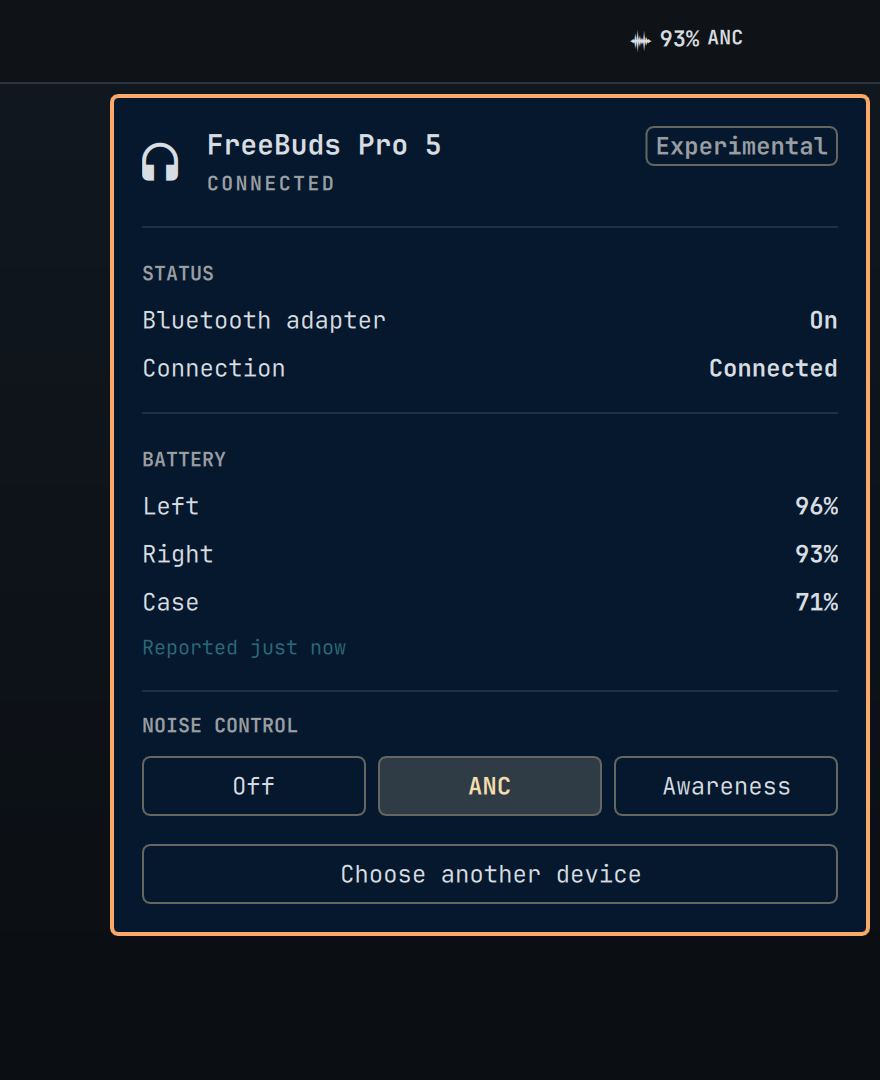
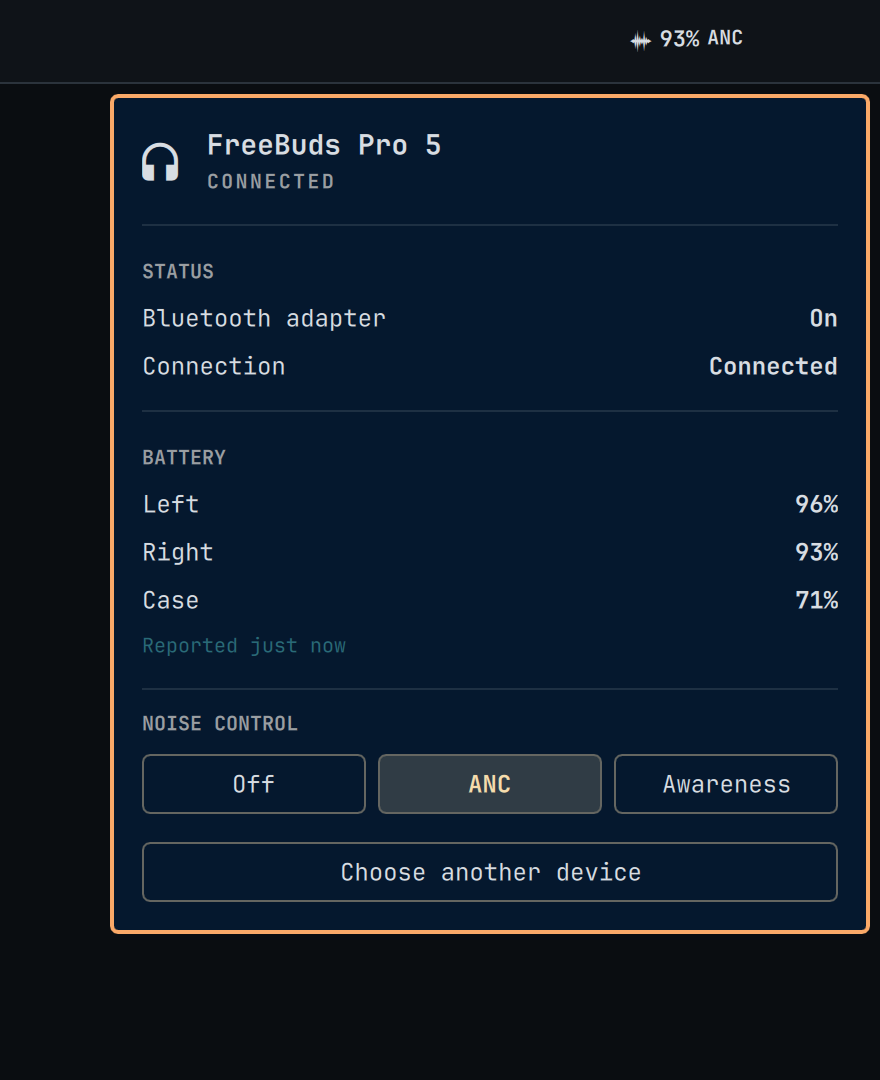
chore: remove experimental labeling
Remove the panel badge and plugin metadata wording, rewrite documentation around the pending hardware gate, and regenerate the preview from the updated panel.

diff --git a/Panel.qml b/Panel.qml
@@ -401,7 +401,6 @@ Ui.Panel {
                     Ui.PanelHero {
                         title: "FreeBuds Pro 5"
                         meta: root.connectionText
-                        detail: "Experimental"
                         foreground: root.barForeground
                         fontFamily: root.fontFamily
                         iconComponent: Component {

diff --git a/docs/research/freebuds-pro-5-protocol.md b/docs/research/freebuds-pro-5-protocol.md
@@ -23,8 +23,8 @@ FreeBuds Pro 5 support on Linux separates into four support areas:
 |---|---|---:|---|
 | Stereo music and media controls | Feasible now through BlueZ, PipeWire, and WirePlumber | High; strengthened by cached profiles and historical local A2DP/AVRCP evidence | Use the standard Linux Bluetooth audio stack without a custom audio transport |
 | HFP call audio | Standards-feasible and discovered locally | Medium; local HFP attempts include refused/not-connected results | Advertise as available by profile, not locally reliability-validated |
-| Left, right, and case battery readings | Feasible as an experimental private-protocol feature | Medium-high for packet semantics; medium-low for discovery and identity | Read only over a tightly gated RFCOMM session |
-| Off, ANC, and transparency control | Feasible as an explicit experimental feature | Medium-high for the three packets; medium-low for discovery, identity, and firmware coverage | Allow only the three retained Pro 5 writes, then verify with a readback |
+| Left, right, and case battery readings | Feasible as a constrained private-protocol feature | Medium-high for packet semantics; medium-low for discovery and identity | Read only over a tightly gated RFCOMM session |
+| Off, ANC, and transparency control | Feasible as an explicit private-protocol feature | Medium-high for the three packets; medium-low for discovery, identity, and firmware coverage | Allow only the three retained Pro 5 writes, then verify with a readback |
 
 The public evidence does **not** justify a broad "fully supported" claim. Huawei does not publish the private control protocol. The strongest public device-specific evidence is a set of retained FreeBuds Pro 5 request, response, and write frames in HuaweiPods tests. Those fixtures cover a battery response, three noise-control readbacks, and three noise-control writes. They do not cover every firmware, error response, notification, pairing state, or concurrent audio/control scenario.
 
@@ -46,7 +46,7 @@ A safe near-term result is therefore:
 - Treat battery values as timestamped observations, not durable state.
 - Do not implement ANC sub-levels, gesture configuration, EQ, low-latency mode, wear-setting writes, multipoint management, or firmware functions from the current evidence.
 
-This is sufficient for an opt-in experimental MVP. It is not sufficient for unattended background control or an unqualified stable-support promise.
+This is sufficient for an opt-in, hardware-gated MVP. It is not sufficient for unattended background control or an unqualified stable-support promise.
 
 ## Scope and non-interaction statement
 
@@ -79,7 +79,7 @@ The report uses five evidence classes. Confidence is scoped to the claim being m
 |---|---|---|---|
 | A: first-party | Huawei, Bluetooth SIG, or the owner of a standard publishes the fact | T0023, supported codecs, SPP behavior, assigned UUIDs | Product and standards facts |
 | B: upstream implementation | BlueZ, PipeWire, WirePlumber, or Linux source defines actual host behavior | `Battery1`, RFCOMM security levels, available codec names | Linux architecture and security |
-| C: retained Pro 5 capture | Public tests retain exact bytes explicitly labeled as captured from Pro 5 | Battery frame and three ANC state frames | Exact experimental protocol support |
+| C: retained Pro 5 capture | Public tests retain exact bytes explicitly labeled as captured from Pro 5 | Battery frame and three ANC state frames | Exact constrained protocol support |
 | D: implementation assertion | A project claims testing or maps a value but does not retain the corresponding raw Pro 5 evidence | Channel 1, ID `00016D`, broad OpenFreebuds feature list | Provisional gating or a lead for future capture, not a settled fact |
 | E: local observation | Read-only inspection of disconnected cache, historical host records, and host software | Cached UUIDs, prior A2DP/AVRCP events, installed codec modules | Local corroboration only; never upgrades an unknown packet/channel/codec meaning by itself |
 
@@ -134,7 +134,7 @@ The Bluetooth SIG describes A2DP as the profile for high-quality audio distribut
 | Stereo music playback | A2DP, with the computer acting as source and earbuds as sink | BlueZ + PipeWire + WirePlumber |
 | Call audio and headset signaling | HFP, normally computer as Audio Gateway and earbuds as Hands-Free unit | BlueZ + PipeWire |
 | Play/pause, track, and volume controls | AVRCP plus PipeWire session integration | BlueZ + PipeWire/WirePlumber |
-| Huawei settings and component battery | No public standard mapping established | Experimental private RFCOMM client |
+| Huawei settings and component battery | No public standard mapping established | Private RFCOMM client |
 
 PipeWire's current Bluetooth property reference lists `a2dp_sink`, `a2dp_source`, `hfp_hf`, and `hfp_ag` roles and lists enabled codec names including SBC, SBC-XQ, AAC, LDAC, aptX variants, LC3, and Opus variants.[^pw-props] WirePlumber exposes those monitor properties and profile auto-connect rules; it documents that all available codecs are enabled by default unless configured otherwise.[^wp-bluetooth]
 
@@ -171,7 +171,7 @@ OpenFreebuds opens an `AF_BLUETOOTH`, `SOCK_STREAM`, `BTPROTO_RFCOMM` socket and
 - The actual Pro 5 SDP UUID/channel tuple remains unverified in public raw evidence.
 - A Linux client must not scan channels 1 through 8 or try unrelated SDP UUIDs.
 - A future hardware pass should retain the actual SDP service record.
-- Until then, channel 1 may be used only behind explicit experimental support and the identity/readback gates described below.
+- Until then, channel 1 may be used only behind explicit opt-in support and the identity/readback gates described below.
 
 The disconnected local target's cached `Device1.UUIDs` includes the standard SerialPort UUID `00001101-0000-1000-8000-00805f9b34fb`. This strengthens the conclusion that this unit previously advertised an SPP-class service. Because `ServicesResolved=false` in the snapshot and no raw SDP record was retained, it does not establish the current service state or server channel. It also does not promote OpenFreebuds' channel-1 assertion from class D to captured fact.
 
@@ -181,7 +181,7 @@ BlueZ `org.bluez.Device1` exposes cached remote UUIDs and read-only `Paired`, `B
 
 This distinction matters. The application should inspect `Device1` but should not call `Pair()`, write `Trusted`, or call broad `Connect()`/`Disconnect()`. Pairing belongs to the desktop's normal UI and agent.
 
-The Bluetooth SIG Battery Service exposes level and related information for a battery within a device, but its existence on this model has not been established.[^bas] BlueZ `org.bluez.Battery1` exposes one read-only byte `Percentage` and an optional informational `Source`.[^bluez-battery] BlueZ's built-in GATT battery plugin looks specifically for Battery Service UUID `0x180F` and registers its value with source `GATT Battery Service`.[^bluez-battery-plugin] PipeWire can also derive one headset battery percentage from HFP indicators such as `AT+BIEV`, `AT+XEVENT=BATTERY`, and `AT+IPHONEACCEV`, then publish it through BlueZ's experimental Battery Provider API.[^pw-hfp-battery][^pw-battery-provider]
+The Bluetooth SIG Battery Service exposes level and related information for a battery within a device, but its existence on this model has not been established.[^bas] BlueZ `org.bluez.Battery1` exposes one read-only byte `Percentage` and an optional informational `Source`.[^bluez-battery] BlueZ's built-in GATT battery plugin looks specifically for Battery Service UUID `0x180F` and registers its value with source `GATT Battery Service`.[^bluez-battery-plugin] PipeWire can also derive one headset battery percentage from HFP indicators such as `AT+BIEV`, `AT+XEVENT=BATTERY`, and `AT+IPHONEACCEV`, then publish it through BlueZ's unstable Battery Provider API.[^pw-hfp-battery][^pw-battery-provider]
 
 BlueZ exposes `BatteryProviderManager1` on the local adapter, which proves only that the host can accept a provider. In the disconnected target snapshot there was no target `Battery1`, target battery-provider object, GATT child, current UPower device, cached Battery Service UUID, `ManufacturerData`, or `ServiceData`. `ServicesResolved=false` means this absence cannot establish what appears during a live connection. Historical UPower files contain only connection-timestamped `0.000`/`unknown` samples; those samples must not be displayed as zero-percent battery.
 
@@ -198,7 +198,7 @@ BlueZ also exposes remote GATT characteristics through `org.bluez.GattCharacteri
 
 ## Capability matrix
 
-`Yes` means evidence supports an implementation decision. `Experimental` means exact scope and guards are mandatory. `No` means deliberately excluded, not necessarily that the product lacks the feature.
+`Yes` means evidence supports an implementation decision. `Constrained` means exact scope and guards are mandatory. `No` means deliberately excluded, not necessarily that the product lacks the feature.
 
 | Capability | Product evidence | Pro 5 protocol evidence | Linux support | MVP decision |
 |---|---|---|---|---|
@@ -206,18 +206,18 @@ BlueZ also exposes remote GATT characteristics through `org.bluez.GattCharacteri
 | Stereo playback | A2DP 1.3; product codecs listed | Not needed | Cached Audio Sink/A2DP UUIDs, historical A2DP fd readiness, persistent `a2dp-sink` | Yes |
 | Call audio | HFP 1.7 | Not needed | Hands-Free UUID cached; historical attempts sometimes refused/not connected | Discovered, but local reliability unvalidated |
 | Media controls | AVRCP 1.6; controls documented | Not needed | Cached AVRCP UUIDs and historical kernel input creation | Yes |
-| Private SPP transport | SPP UUID cached on the local target | No raw SDP record/channel capture | Direct RFCOMM available; channel 1 remains an implementation assertion | Experimental only |
+| Private SPP transport | SPP UUID cached on the local target | No raw SDP record/channel capture | Direct RFCOMM available; channel 1 remains an implementation assertion | Constrained only |
 | SBC | Huawei lists support | Not needed | Host module installed; peer negotiation not recorded | Yes, only if negotiated |
 | AAC | Huawei lists support | Not needed | Host module installed; peer negotiation not recorded | Yes, only if negotiated |
 | LDAC | Huawei lists support | Not needed | Host module links `libldac`; peer negotiation not recorded | Yes, only if negotiated |
 | L2HC | Huawei lists support | None | No implementation found in examined stock stack | No |
 | NearLink E2.0 | Huawei China page lists it separately | None | No implementation found | No |
 | One host battery percentage | Huawei documents host displays | Source on Pro 5 unknown | No live target `Battery1`; UPower history is `0.000`/`unknown` | Hide until a live value is cross-validated |
-| Left/right/case percentages | Huawei app documents component display | Exact Pro 5 battery frame retained | Direct RFCOMM | Experimental read-only |
-| Per-component charging flags | Product has rechargeable components | Pro 5 frame has three captured bytes in TLV `03`; zero observed | Direct RFCOMM | Experimental read-only; nonzero semantics need capture coverage |
-| Earbud in/out-of-case state | Product has case and wear behavior | Pro 5 tests label TLV `05`: `0` out, `1` in | Direct RFCOMM | Experimental read-only |
-| Read current noise-control mode | ANC/transparency official | Three exact Pro 5 response frames retained | Direct RFCOMM | Experimental |
-| Set Off/ANC/Transparency | Modes official | Three exact Pro 5 writes retained | Direct RFCOMM | Experimental, user initiated and readback verified |
+| Left/right/case percentages | Huawei app documents component display | Exact Pro 5 battery frame retained | Direct RFCOMM | Constrained read-only |
+| Per-component charging flags | Product has rechargeable components | Pro 5 frame has three captured bytes in TLV `03`; zero observed | Direct RFCOMM | Constrained read-only; nonzero semantics need capture coverage |
+| Earbud in/out-of-case state | Product has case and wear behavior | Pro 5 tests label TLV `05`: `0` out, `1` in | Direct RFCOMM | Constrained read-only |
+| Read current noise-control mode | ANC/transparency official | Three exact Pro 5 response frames retained | Direct RFCOMM | Constrained |
+| Set Off/ANC/Transparency | Modes official | Three exact Pro 5 writes retained | Direct RFCOMM | Constrained, user initiated and readback verified |
 | Discrete ANC strength | Advanced ANC official at a product level | No retained Pro 5 write/read mapping; HuaweiPods intentionally leaves it disabled | None standard | No |
 | Voice-transparency submode | Human Voice Transparency official | No retained Pro 5 command corpus beyond generic transparency | None standard | No |
 | Wear-detection setting | Feature official | OpenFreebuds claim only for private configuration | None standard established | Observe standard playback behavior only; no setting writes |
@@ -371,7 +371,7 @@ The route policy maps `00016D` to `HUAWEI_FREEBUDS_PRO5` and comments that only 
 
 OpenFreebuds instead dispatches its Pro 5 driver by the Bluetooth name `HUAWEI FreeBuds Pro 5` and assigns channel 1.[^ofb-pro5][^ofb-driver-map] A display name alone is not a safe protocol capability gate.
 
-### Provisional gate for an experimental MVP
+### Provisional gate for a hardware-gated MVP
 
 Use a monotonic state machine. Never infer a later state from a timeout or default value.
 
@@ -381,8 +381,8 @@ Use a monotonic state machine. Never infer a later state from a timeout or defau
 | `Selected` | User explicitly selects one already paired/bonded device | Read cached BlueZ metadata; no private write |
 | `SecureTransport` | One RFCOMM channel-1 connection succeeds with explicit medium security | DeviceInfo query only |
 | `IdentityProvisional` | Strict DeviceInfo parser returns `00016D`; no conflicting valid identity | Battery and ANC-state reads |
-| `ReadVerified` | At least one CRC-valid response has a Pro 5-retained shape: component battery with valid tag `05`, or extended ANC response with tag `02 01 05` | Show experimental read data |
-| `WriteEnabled` | User separately enables experimental controls and a fresh ANC state read succeeds | Three exact mode writes, one at a time, with readback |
+| `ReadVerified` | At least one CRC-valid response has a Pro 5-retained shape: component battery with valid tag `05`, or extended ANC response with tag `02 01 05` | Show gated read data |
+| `WriteEnabled` | User separately enables private controls and a fresh ANC state read succeeds | Three exact mode writes, one at a time, with readback |
 | `Faulted` | Security downgrade, bad CRC threshold, malformed known TLV, identity conflict, timeout during verification, or post-write mismatch | Close transport; no more writes until explicit retry |
 
 Additional rules:
@@ -882,7 +882,7 @@ Linux revision: `0f23d56f17fdfc7db69d51f64c8b91bbab947aa9`, 2026-08-17.
 
 ## Final recommendation
 
-Proceed with a staged Linux implementation only if the product is presented honestly as experimental private-protocol support:
+Proceed with a staged Linux implementation only if the product is presented honestly as constrained, hardware-gated private-protocol support:
 
 1. Build standard audio integration by observing, not replacing, BlueZ/PipeWire/WirePlumber.
 2. Implement and exhaustively test the strict offline framer and fixture corpus.

diff --git a/docs/implementation-plan.md b/docs/implementation-plan.md
@@ -24,7 +24,7 @@ The implementation keeps these invariants from the first commit:
 - The selected address is the only persistent device datum and is stored atomically with mode `0600`.
 - Private values are nullable observations and are never fabricated or persisted.
 - The UI remains visible and useful through its generic Quickshell fallback.
-- The release remains labeled Experimental before and after the physical hardware gate; that gate authorizes an Experimental release tag, not a stable-support claim.
+- The release tag remains blocked until the physical hardware gate passes; passing that gate does not broaden the exact target or establish a stable-support claim.
 - Invalid config startup reports `config_invalid` before the final hello; accepted request IDs strictly increase for each child lifetime.
 - Every transport send has a fail-closed queued-input guard with one exception for the exact empty `01/06` control frame, while the protocol's missing sequence field remains an explicit causality limit.
 - Generic fallback is display-only, and a wall-clock rollback expires private observations.
@@ -51,7 +51,7 @@ The finished tree contains these implementation and verification files:
 | `.gitignore` | Excludes Python bytecode and `__pycache__` directories |
 | `docs/hardware-validation.md` | Authoritative Pending/Passed/Failed ledger for HW-01 through HW-16 |
 | `docs/preview.png` | Actual Omarchy layer-shell render with deterministic fixture values; documentation only |
-| `README.md` | Experimental scope, installation, use, privacy, troubleshooting, removal, and no-affiliation notice |
+| `README.md` | Target scope, hardware status, installation, use, privacy, troubleshooting, removal, and no-affiliation notice |
 | `LICENSE` | Standard MIT License text with the project copyright notice |
 
 No settings schema, package recipe, service unit, vendored dependency, icon asset, generated code, virtual environment, binary helper, submodule, raw mode-`160000` gitlink, or repository symlink is added.
@@ -65,7 +65,7 @@ No settings schema, package recipe, service unit, vendored dependency, icon asse
 3. Add minimal `Service.qml` and `Panel.qml` entry points that instantiate without host properties and become usable after delayed host injection.
 4. In `Service.qml`, declare nullable `shell` and `manifest`; do not use `required` for host-injected values.
 5. In `Panel.qml`, derive from Omarchy `Panel`, set `manageIpc: false`, keep `bar`, `moduleName`, and `settings` nullable, and render one native generic headphones glyph even when the service is null.
-6. Add `README.md` with the exact target, Experimental label, Omarchy 4 baseline, MIT license, unofficial/no-affiliation statement, and a statement that all Bluetooth management remains in Omarchy Bluetooth.
+6. Add `README.md` with the exact target, pending hardware status, Omarchy 4 baseline, MIT license, unofficial/no-affiliation statement, and a statement that all Bluetooth management remains in Omarchy Bluetooth.
 7. Create `.github/workflows/check.yml` with an initial manifest and syntax job; later steps extend the same workflow.
 
 ### Verification
@@ -367,7 +367,7 @@ Extend `tests/qml/tst_Model.qml` and the host entry-point smoke harness to prove
 5. Show the lower fresh verified left/right value in the bar and suppress the generic `Earbuds` row while component rows are present. Otherwise show the Quickshell aggregate only for the unambiguous selected connected device; in the service-null fallback, require exactly one connected exact-name paired/bonded candidate.
 6. Open and close the per-monitor panel directly from the bar button. Set `manageIpc: false`; add no external IPC handler.
 7. On `opened` changing from false to true, call `service.panelOpened()` once. Do not call it on component creation, close, generic reconnect, or state rerender.
-8. Render the fixed panel order from `architecture.md`: Experimental header, generic connection state, one battery presentation, freshness, ANC controls, and one safe next action.
+8. Render the fixed panel order from `architecture.md`: product header, generic connection state, one battery presentation, freshness, ANC controls, and one safe next action.
 9. Display unknown private fields as `Not reported`. Never render a null, invalid, stale-bar, or failed value as `0%`.
 10. Hide ANC controls until current-generation extended ANC verification succeeds. Disable them while stale, pending, disconnected, helper-failed, or expired.
 11. Render only `Off`, `ANC`, and `Awareness`; a fresh verified mode selects its matching bar glyph and short marker. A press calls `service.setAnc()` once and shows pending state until readback result.
@@ -444,7 +444,7 @@ Run QML unit tests and perform an Omarchy host smoke pass for:
 3. Add an AST-based Python import allowlist test and a socket-construction test that permits only the accepted Bluetooth family/type/protocol.
 4. Add static scans over implementation files for OpenFreebuds/Omapods runtime references, IP socket families, HTTP modules, D-Bus modules, systemd units, package recipes, detached execution, shell interpolation, channel iteration, security downgrade, retry loops, and private polling timers.
 5. Use `/usr/lib/qt6/bin/qmlformat` on temporary copies whose filenames end in `.qml`, because installed `qmlformat 1.0` has no `--check` flag.
-6. Complete `README.md` with exact install, enable, use, Experimental warning, generic fallback, privacy, config path/mode, troubleshooting, disable, removal, and optional config deletion instructions.
+6. Complete `README.md` with exact install, enable, use, pending hardware warning, generic fallback, privacy, config path/mode, troubleshooting, disable, removal, and optional config deletion instructions.
 7. State in README that the project is unofficial, is not affiliated with Huawei, supports only T0023/`00016D`, ships no Huawei/Omapods assets, performs no Bluetooth management, and performs no network access.
 8. Verify the manifest and README contain no OpenFreebuds installation instruction, helper-package instruction, AUR dependency, systemd command, or broader-model claim.
 9. Reject raw gitlinks from `git ls-files --stage`, as well as filesystem symlinks and unexpected paths. Permit only the bounded `880x1080` `docs/preview.png` as binary documentation and reject every other binary path.
@@ -536,12 +536,12 @@ automated fixtures and host smoke do not satisfy a hardware row.
 
 ### Abort conditions
 
-Stop the hardware session immediately if an unexpected pairing, authorization, reset, firmware update, account prompt, repeated disconnect, unstable audio, thermal issue, ambiguous target, differing write frame, second private-control socket, or unrecoverable starting state appears. Stop means close the current socket, send no compensating unverified command, preserve the exact failure evidence privately, and keep the release Experimental.
+Stop the hardware session immediately if an unexpected pairing, authorization, reset, firmware update, account prompt, repeated disconnect, unstable audio, thermal issue, ambiguous target, differing write frame, second private-control socket, or unrecoverable starting state appears. Stop means close the current socket, send no compensating unverified command, preserve the exact failure evidence privately, and keep the release blocked.
 
 ### Release outcome
 
-- If every HW gate passes, set the hardware ledger to `Status: Passed`, keep the release Experimental, and run the full offline gate once more. A release tag is eligible only if it is an annotated `v0.1.0` tag at that exact green commit, contains a PGP or SSH signature envelope, and GitHub cryptographically verifies that signature with `verification.verified: true` and `verification.reason: valid`.
-- If any HW gate fails or is not executed, keep the ledger `Failed` or `Pending`, block the release tag, keep `0.1.0` labeled Experimental, expose no unsupported private claim, and introduce no fallback implementation branch.
+- If every HW gate passes, set the hardware ledger to `Status: Passed` and run the full offline gate once more. A release tag is eligible only if it is an annotated `v0.1.0` tag at that exact green commit, contains a PGP or SSH signature envelope, and GitHub cryptographically verifies that signature with `verification.verified: true` and `verification.reason: valid`.
+- If any HW gate fails or is not executed, keep the ledger `Failed` or `Pending`, block the release tag, expose no unsupported private claim, and introduce no fallback implementation branch.
 - A failed gate returns implementation to the numbered step that owns the failing behavior. After the fix, rerun that step's gate, all later automated gates, and the complete hardware matrix from HW-01.
 - CI uses only its workflow token to query GitHub's verification result; it has no private signing key configured, and this plan claims no current signing readiness.
 
@@ -560,6 +560,6 @@ Implementation is complete when all of these statements are true:
 9. Every architecture failure state has a tested deterministic generic fallback.
 10. The repository contains no rejected dependency, process model, networking path, model expansion, packet API, asset, or settings schema.
 11. The physical-gate result is recorded in `docs/hardware-validation.md`; a tag requires Passed plus sixteen Pass rows, an annotated PGP or SSH signature envelope, and GitHub cryptographic verification with `verification.verified: true` and `verification.reason: valid`.
-12. The release remains Experimental regardless of the hardware-gate outcome.
+12. The exact T0023/`00016D` scope remains unchanged regardless of the hardware-gate outcome.
 
-This definition is binary. A red item leaves the implementation incomplete or the release Experimental according to Step 10; it does not authorize a compatibility workaround.
+This definition is binary. A red item leaves the implementation incomplete or the release blocked according to Step 10; it does not authorize a compatibility workaround.

diff --git a/docs/architecture.md b/docs/architecture.md
@@ -16,8 +16,8 @@ The release provides:
 
 - An Omarchy 4 native bar widget and panel that are always present when enabled.
 - Generic paired, connected, adapter, and fallback aggregate-battery state from `Quickshell.Bluetooth`.
-- Experimental left, right, and case battery observations from strictly validated Huawei RFCOMM responses.
-- Experimental top-level noise-control state and explicit `Off`, `ANC`, and `Awareness` actions.
+- Left, right, and case battery observations from strictly validated Huawei RFCOMM responses.
+- Top-level noise-control state and explicit `Off`, `ANC`, and `Awareness` actions.
 - A deterministic generic BlueZ fallback whenever private access is unavailable.
 
 The release does not manage Bluetooth. Pairing, connecting, disconnecting, forgetting, adapter power, discovery, trust, and audio profiles remain the responsibility of Omarchy, BlueZ, and PipeWire/WirePlumber.
@@ -70,7 +70,7 @@ The manifest is schema version 1 and contains exactly the supported identity and
   "version": "0.1.0",
   "author": "Filipe Chagas",
   "license": "MIT",
-  "description": "Experimental battery and noise control for Huawei FreeBuds Pro 5.",
+  "description": "Battery and noise control for Huawei FreeBuds Pro 5.",
   "kinds": [
     "service",
     "bar-widget"
@@ -81,7 +81,7 @@ The manifest is schema version 1 and contains exactly the supported identity and
   },
   "barWidget": {
     "displayName": "FreeBuds Pro 5",
-    "description": "Experimental battery and noise control for verified Huawei FreeBuds Pro 5 earbuds.",
+    "description": "Battery and noise control for verified Huawei FreeBuds Pro 5 earbuds.",
     "category": "Audio",
     "allowMultiple": false,
     "defaultSection": "right"
@@ -479,7 +479,7 @@ The bar shows:
 
 The panel shows, in order:
 
-1. `FreeBuds Pro 5` with an `Experimental` label.
+1. A `FreeBuds Pro 5` header.
 2. Generic adapter and selected-device connection state from Quickshell.
 3. Either a generic `Earbuds` aggregate fallback or verified left, right, and case rows, never both presentations together.
 4. Private component rows only for valid observations; unknown fields read `Not reported` and never `0%` by default.
@@ -593,9 +593,14 @@ The following branches are closed for `0.1.0`. Implementing one requires a new a
 | External private-control IPC | Adds an undisclosed transaction trigger and multi-monitor target contention | Direct panel-to-singleton functions only |
 | Automatic child restart loop | Can thrash the shell and obscures failure | One child start; explicit Retry after failure |
 
-## 17. Release classification and hardware gate
+## 17. Release readiness and hardware gate
 
-Version `0.1.0` is **Experimental**. Passing physical validation authorizes an Experimental release tag; it does not promote the release to stable support or remove the Experimental label. Offline tests can establish parser and transaction correctness, but they cannot establish that retail T0023 firmware accepts Linux RFCOMM channel 1 with explicit medium security or that retained frames behave identically on the available unit.
+Version `0.1.0` is gated by physical validation. Passing that gate satisfies
+the hardware condition for a release tag; it does not by itself establish a
+broader stable-support claim. Offline tests can establish parser and transaction
+correctness, but they cannot establish that retail T0023 firmware accepts Linux
+RFCOMM channel 1 with explicit medium security or that retained frames behave
+identically on the available unit.
 
 [`hardware-validation.md`](hardware-validation.md) is the sole hardware status ledger. Its current status is `Pending`, and HW-01 through HW-16 are all `Not run`; no hardware test is claimed as passed. A release tag can pass only when that document says `Status: Passed` and every one of its sixteen rows says `Pass`.
 
@@ -621,4 +626,4 @@ The implementation conforms to this record only when all statements below are tr
 - Repository checks reject symlinks and raw mode-`160000` gitlinks.
 - Repository checks require the bounded `880x1080` PNG documentation preview and reject every other binary path.
 - A release tag remains blocked until the hardware ledger is Passed in every row, the annotated tag contains a PGP or SSH signature envelope, and GitHub cryptographically verifies that signature with `verification.verified: true` and `verification.reason: valid`.
-- The release remains Experimental even after the hardware gate passes.
+- Passing the hardware gate does not broaden the exact T0023/`00016D` scope or any support claim.

diff --git a/README.md b/README.md
@@ -1,8 +1,8 @@
 # FreeBuds Pro 5 for Omarchy
 
-**Experimental:** this plugin targets only HUAWEI FreeBuds Pro 5, public model
-T0023 and private DeviceInfo model ID `00016D`. Hardware validation status is
-**Pending**. Every row from `HW-01` through `HW-16` is `Not run`.
+**Hardware validation pending:** this plugin targets only HUAWEI FreeBuds Pro 5,
+public model T0023 and private DeviceInfo model ID `00016D`. Every row from
+`HW-01` through `HW-16` is `Not run`.
 No hardware test is claimed as passed. No other model is supported; unavailable
 private access falls back to display-only generic Bluetooth status.
 
@@ -28,11 +28,10 @@ assets.
 
 ## Release Status
 
-Release `0.1.0` remains Experimental even after the hardware gate eventually
-passes. The authoritative status is
-[`docs/hardware-validation.md`](docs/hardware-validation.md), which is currently
-`Pending` with all sixteen rows `Not run`. Therefore no release tag is currently
-eligible to pass CI.
+Release `0.1.0` is gated by the authoritative
+[`docs/hardware-validation.md`](docs/hardware-validation.md) ledger, which is
+currently `Pending` with all sixteen rows `Not run`. Therefore no release tag is
+currently eligible to pass CI.
 
 A release tag can pass only when the ledger says `Status: Passed`, every
 HW-01..HW-16 row says `Pass`, and `v0.1.0` is an annotated tag on the exact

diff --git a/docs/hardware-validation.md b/docs/hardware-validation.md
@@ -2,8 +2,6 @@
 
 Status: Pending
 
-Release classification: **Experimental**
-
 No hardware gate has been run or passed. Automated fixtures, parser tests, QML
 tests, and host smoke tests do not count as physical hardware evidence.
 
@@ -11,8 +9,8 @@ tests, and host smoke tests do not count as physical hardware evidence.
 
 A release tag can pass CI only when this document says `Status: Passed` and
 every row from HW-01 through HW-16 says `Pass`. A `Fail` or `Not run` result
-blocks the tag. Passing this gate does not remove the Experimental
-classification.
+blocks the tag. Passing this gate satisfies only the physical hardware
+condition; every other release condition still applies.
 
 The release tag must also be an annotated tag object containing a complete PGP
 or SSH signature envelope. CI queries GitHub's annotated-tag REST object with

diff --git a/docs/research/product-spec.md b/docs/research/product-spec.md
@@ -123,7 +123,7 @@ No usage analytics are collected. Success is determined by the acceptance tests,
 
 ### 4.2 Non-goals
 
-The following are excluded from `0.1.x` and must not appear as hidden, experimental, or disabled controls:
+The following are excluded from `0.1.x` and must not appear as hidden, provisional, or disabled controls:
 
 - General Bluetooth discovery, adapter power, pair, disconnect, forget, trust, or device renaming.
 - Support for any model other than FreeBuds Pro 5.
